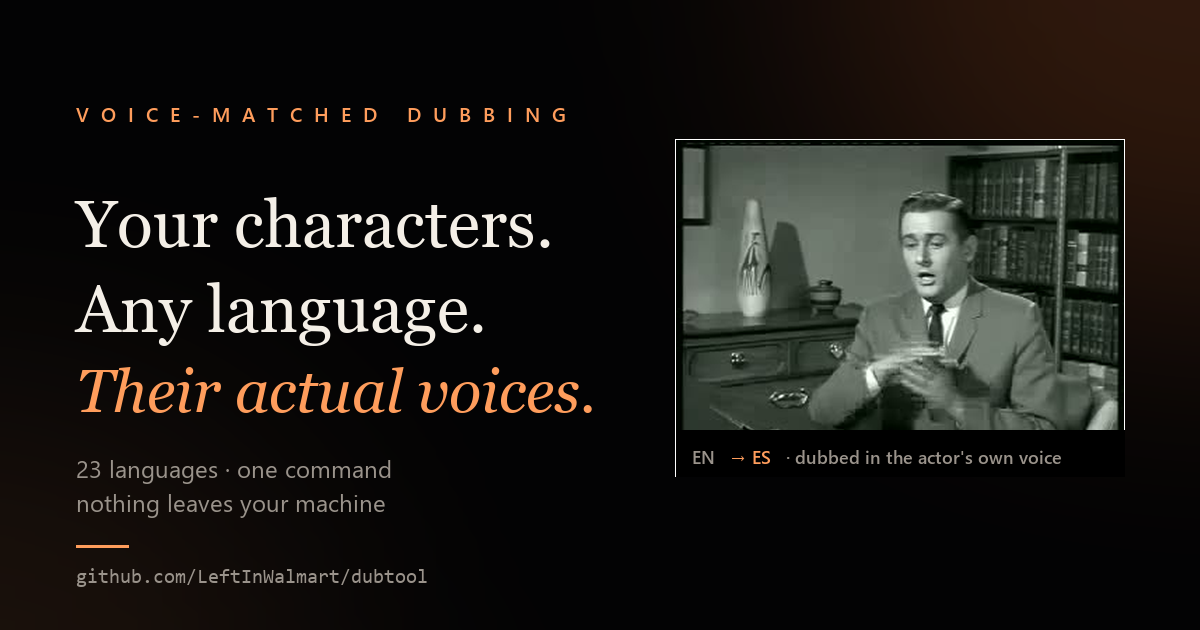
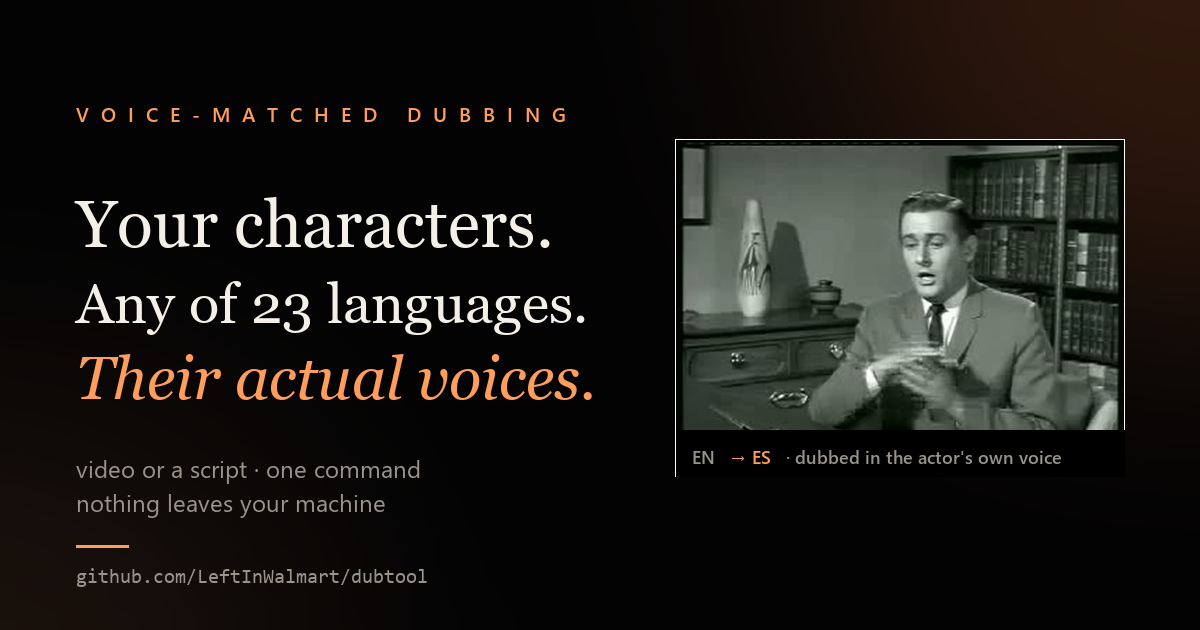
Stop the card claiming 'any language' above a line that says 23
Say 23 in the headline and spend the sub-line on something the headline does not already
say: that it takes a video or a script.

Changed region(s): [[0.0617, 0.4524, 0.4933, 0.6635], [0.0617, 0.7238, 0.37, 0.7841]]

diff --git a/scripts/make_social_preview.py b/scripts/make_social_preview.py
@@ -54,14 +54,14 @@ def main() -> None:
     y = 186
     for path, line, colour in (
         (SERIF, "Your characters.", CREAM),
-        (SERIF, "Any language.", CREAM),
+        (SERIF, "Any of 23 languages.", CREAM),
         (SERIF_I, "Their actual voices.", ACCENT),
     ):
         font, _ = fit(d, path, line, 66, COL_W)
         d.text((X, y), line, font=font, fill=colour)
         y += int(font.size * 1.30)
 
-    d.text((X, 452), "23 languages · one command", font=ImageFont.truetype(REGULAR, 24), fill=MUTED)
+    d.text((X, 452), "video or a script · one command", font=ImageFont.truetype(REGULAR, 24), fill=MUTED)
     d.text((X, 486), "nothing leaves your machine", font=ImageFont.truetype(REGULAR, 24), fill=MUTED)
 
     d.line((X, 546, X + 52, 546), fill=ACCENT, width=3)
